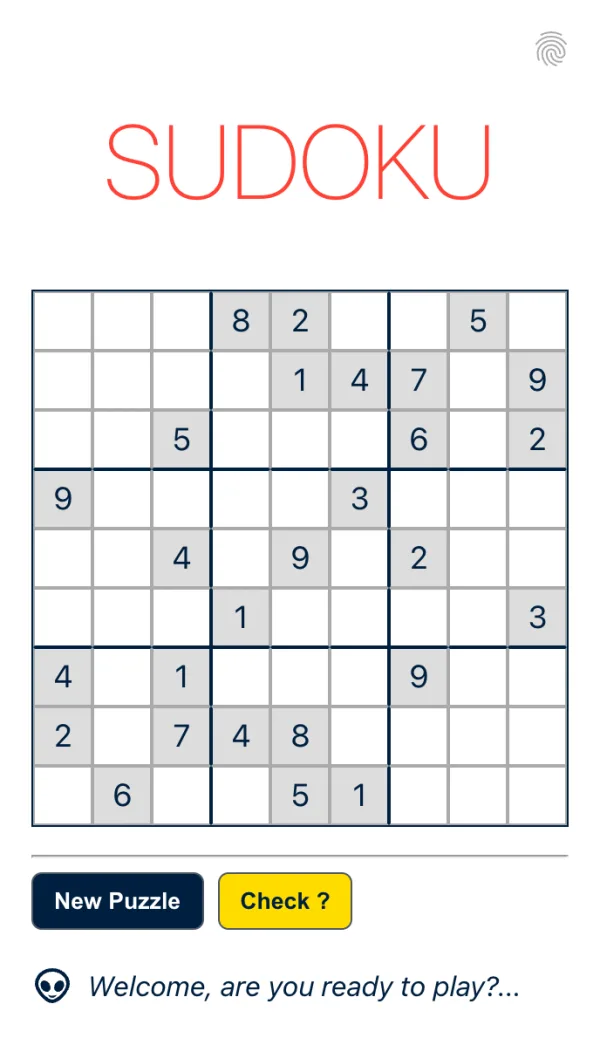
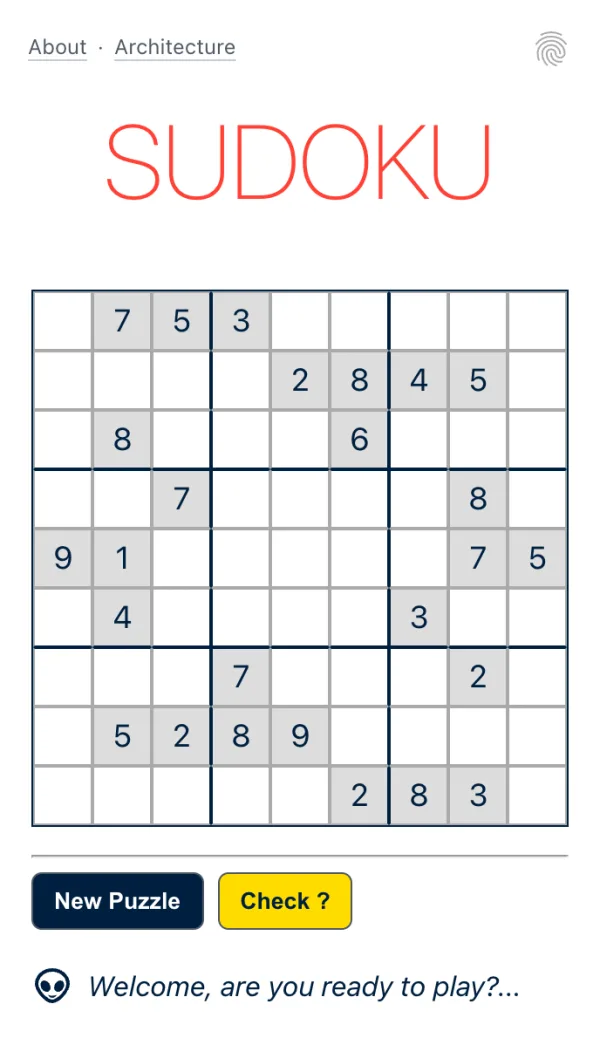
About: recapture the walkthrough screenshots with the header links
The three shots predate the About and Architecture links in the page's
top-left corner. Recaptured with scripts/capture-about.mjs at the same
sizes, so the About layout doesn't shift. Architecture's footer now
reflects index.html as of 2026-11-15.

diff --git a/public/architecture.html b/public/architecture.html
@@ -750,7 +750,7 @@ footer.note a { color: inherit; text-underline-offset: 3px; }
   </main>
 
   <footer class="note">
-    Reflects <code>src/lib.rs</code>, <code>wrangler.jsonc</code>, <code>Cargo.toml</code> and <code>public/index.html</code> as of 2026-11-12. <a href="/">Play</a> · <a href="/about">About</a> · <a href="/llms.txt">llms.txt</a> · <a href="https://eswat2.app">eswat2.app</a>
+    Reflects <code>src/lib.rs</code>, <code>wrangler.jsonc</code>, <code>Cargo.toml</code> and <code>public/index.html</code> as of 2026-11-15. <a href="/">Play</a> · <a href="/about">About</a> · <a href="/llms.txt">llms.txt</a> · <a href="https://eswat2.app">eswat2.app</a>
   </footer>
 </div>
 
